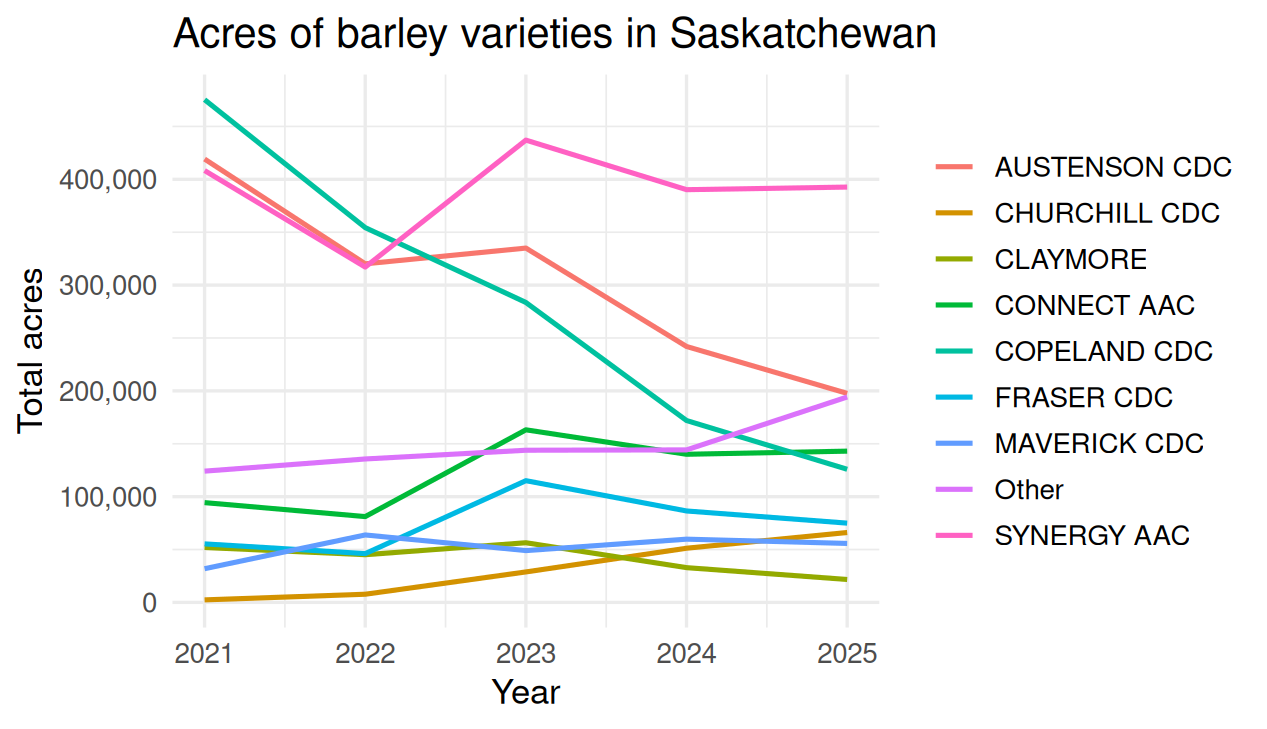
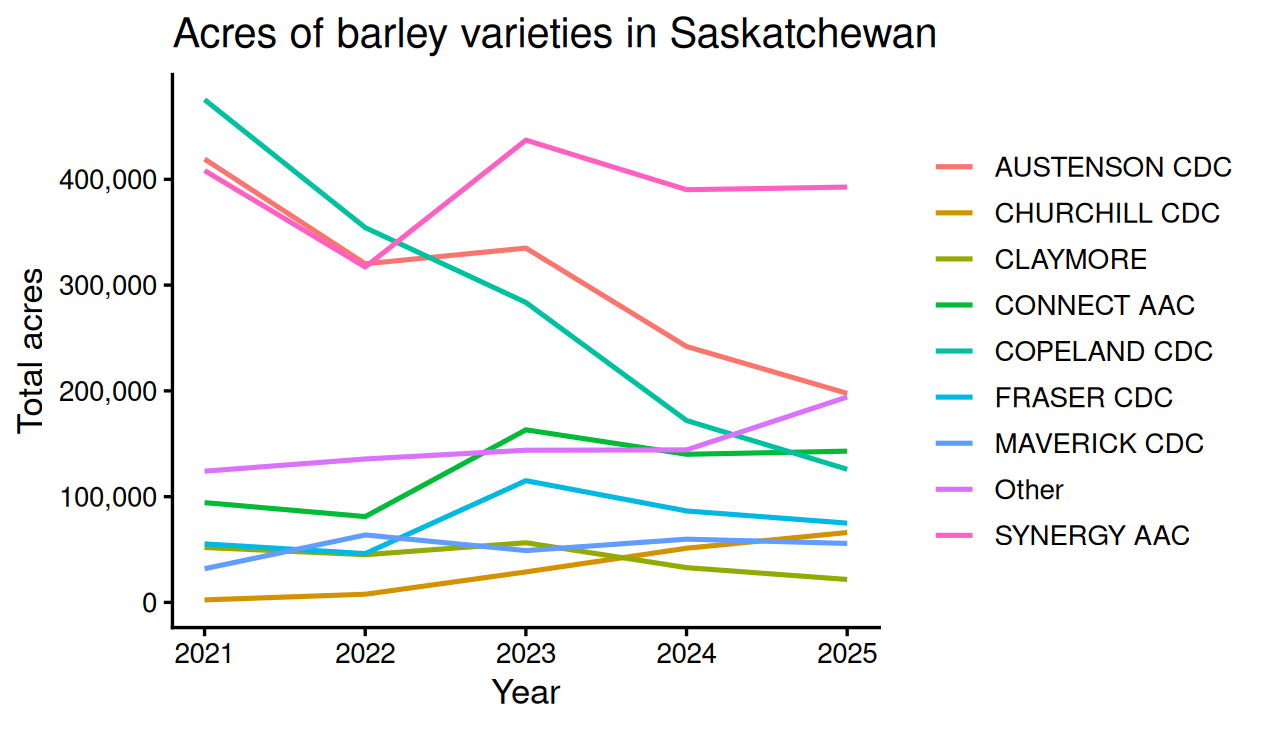
Built site for gh-pages

Changed region(s): [[0.0308, 0.1207, 0.708, 0.9355]]

diff --git a/module04c.html b/module04c.html
@@ -910,9 +910,9 @@ Figure&nbsp;12.8: The same line with a title, labelled axes and a zero baseline.
 <span id="cb13-4"><a href="#cb13-4" aria-hidden="true" tabindex="-1"></a>  <span class="fu">ggplot</span>(<span class="fu">aes</span>(<span class="at">x =</span> year, <span class="at">y =</span> acres, <span class="at">colour =</span> variety)) <span class="sc">+</span>   <span class="co"># one line per variety</span></span>
 <span id="cb13-5"><a href="#cb13-5" aria-hidden="true" tabindex="-1"></a>  <span class="fu">geom_line</span>(<span class="at">linewidth =</span> <span class="dv">1</span>) <span class="sc">+</span></span>
 <span id="cb13-6"><a href="#cb13-6" aria-hidden="true" tabindex="-1"></a>  <span class="fu">scale_y_continuous</span>(<span class="at">labels =</span> scales<span class="sc">::</span>comma, <span class="at">limits =</span> <span class="fu">c</span>(<span class="dv">0</span>, <span class="cn">NA</span>)) <span class="sc">+</span></span>
-<span id="cb13-7"><a href="#cb13-7" aria-hidden="true" tabindex="-1"></a>  <span class="fu">labs</span>(<span class="at">title =</span> <span class="st">"Copeland's acres are falling in risk zone 1; Synergy's are rising"</span>,</span>
+<span id="cb13-7"><a href="#cb13-7" aria-hidden="true" tabindex="-1"></a>  <span class="fu">labs</span>(<span class="at">title =</span> <span class="st">"Acres planted with Synergy and Copeland in risk zone 1"</span>,</span>
 <span id="cb13-8"><a href="#cb13-8" aria-hidden="true" tabindex="-1"></a>       <span class="at">x =</span> <span class="st">"Year"</span>, <span class="at">y =</span> <span class="st">"Acres"</span>, <span class="at">colour =</span> <span class="cn">NULL</span>) <span class="sc">+</span></span>
-<span id="cb13-9"><a href="#cb13-9" aria-hidden="true" tabindex="-1"></a>  <span class="fu">theme_classic</span>(<span class="at">base_size =</span> <span class="dv">13</span>)</span></code></pre></div><button title="Copy to Clipboard" class="code-copy-button"><i class="bi"></i></button></div>
+<span id="cb13-9"><a href="#cb13-9" aria-hidden="true" tabindex="-1"></a>  <span class="fu">theme_classic</span>(<span class="at">base_size =</span> <span class="dv">13</span>) </span></code></pre></div><button title="Copy to Clipboard" class="code-copy-button"><i class="bi"></i></button></div>
 <div class="cell-output-display">
 <div id="fig-r-line-two" class="quarto-float quarto-figure quarto-figure-center anchored" alt="Two lines crossing: Copeland falls from about 21,000 acres in 2021 to 7,900 in 2025 while Synergy rises from 4,300 to 9,200.">
 <figure class="quarto-float quarto-float-fig figure">
@@ -929,10 +929,10 @@ Figure&nbsp;12.9: Synergy and Copeland in risk zone 1.
 <p>Breaking down what changed:</p>
 <ol type="1">
 <li><code>%in%</code> keeps a row when <code>variety</code> matches either name in the list, where <code>==</code> could match only one <em>then</em></li>
-<li><code>colour = variety</code> is now <em>inside</em> <code>aes()</code>, so colour carries information: each variety gets its own colour and its own line. When we set the colour of the Synergy line ourselves, <code>colour = "DarkGreen"</code> sat <em>outside</em> <code>aes()</code>, in <code>geom_line()</code> <em>then</em></li>
+<li><code>colour = variety</code> is now <em>inside</em> <code>aes()</code>. So what is in <code>aes()</code> now reads – assign year to the x-axis, acres to the y-axis, and give each variety its own colour (i.e., its own line) <em>then</em></li>
 <li><code>colour = NULL</code> inside <code>labs()</code> removes the legend’s title, since the variety names speak for themselves.</li>
 </ol>
-<p>The Excel chapter’s answer to “what about all the varieties?” was a PivotChart, with the small varieties filtered out or grouped. We can do the same grouping here, in a data step and a plotting step. This time we want the whole province rather than one risk zone, so the data step also has to add up the acres across zones with <code>group_by()</code> and <code>summarise()</code>. It builds the variety-year totals, works out which varieties have more than 150,000 acres over the five years – the same threshold we used in the PivotChart filter – and renames the rest to <code>"Other"</code>:</p>
+<p>Now we want to add all the varieties to our plot and to sum acreage across risk zones. Our first challenge is to do what the PivotTable effectively did in Excel: sum the acres for each variety and year across risk zones.</p>
 <div class="cell">
 <div class="cell-output-display">
 <div class="code-copy-outer-scaffold"><div class="sourceCode" id="cb14"><pre class="sourceCode r code-with-copy"><code class="sourceCode r"><span id="cb14-1"><a href="#cb14-1" aria-hidden="true" tabindex="-1"></a><span class="co"># Total acres for each variety and year</span></span>
@@ -941,20 +941,7 @@ Figure&nbsp;12.9: Synergy and Copeland in risk zone 1.
 <span id="cb14-4"><a href="#cb14-4" aria-hidden="true" tabindex="-1"></a>  <span class="fu">group_by</span>(variety, year) <span class="sc">|&gt;</span></span>
 <span id="cb14-5"><a href="#cb14-5" aria-hidden="true" tabindex="-1"></a>  <span class="fu">summarise</span>(<span class="at">acres =</span> <span class="fu">sum</span>(acres, <span class="at">na.rm =</span> <span class="cn">TRUE</span>), <span class="at">.groups =</span> <span class="st">"drop"</span>)</span>
 <span id="cb14-6"><a href="#cb14-6" aria-hidden="true" tabindex="-1"></a></span>
-<span id="cb14-7"><a href="#cb14-7" aria-hidden="true" tabindex="-1"></a><span class="co"># Which varieties have more than 150,000 acres over the five years?</span></span>
-<span id="cb14-8"><a href="#cb14-8" aria-hidden="true" tabindex="-1"></a>big_varieties <span class="ot">&lt;-</span> barley_by_year <span class="sc">|&gt;</span></span>
-<span id="cb14-9"><a href="#cb14-9" aria-hidden="true" tabindex="-1"></a>  <span class="fu">group_by</span>(variety) <span class="sc">|&gt;</span></span>
-<span id="cb14-10"><a href="#cb14-10" aria-hidden="true" tabindex="-1"></a>  <span class="fu">summarise</span>(<span class="at">total_acres =</span> <span class="fu">sum</span>(acres)) <span class="sc">|&gt;</span></span>
-<span id="cb14-11"><a href="#cb14-11" aria-hidden="true" tabindex="-1"></a>  <span class="fu">filter</span>(total_acres <span class="sc">&gt;</span> <span class="dv">150000</span>)</span>
-<span id="cb14-12"><a href="#cb14-12" aria-hidden="true" tabindex="-1"></a></span>
-<span id="cb14-13"><a href="#cb14-13" aria-hidden="true" tabindex="-1"></a>big_varieties</span>
-<span id="cb14-14"><a href="#cb14-14" aria-hidden="true" tabindex="-1"></a></span>
-<span id="cb14-15"><a href="#cb14-15" aria-hidden="true" tabindex="-1"></a><span class="co"># Group everything else into "Other" and re-total</span></span>
-<span id="cb14-16"><a href="#cb14-16" aria-hidden="true" tabindex="-1"></a>main_varieties <span class="ot">&lt;-</span> barley_by_year <span class="sc">|&gt;</span></span>
-<span id="cb14-17"><a href="#cb14-17" aria-hidden="true" tabindex="-1"></a>  <span class="fu">mutate</span>(<span class="at">variety =</span> <span class="fu">if_else</span>(variety <span class="sc">%in%</span> big_varieties<span class="sc">$</span>variety,</span>
-<span id="cb14-18"><a href="#cb14-18" aria-hidden="true" tabindex="-1"></a>                           variety, <span class="st">"Other"</span>)) <span class="sc">|&gt;</span></span>
-<span id="cb14-19"><a href="#cb14-19" aria-hidden="true" tabindex="-1"></a>  <span class="fu">group_by</span>(variety, year) <span class="sc">|&gt;</span></span>
-<span id="cb14-20"><a href="#cb14-20" aria-hidden="true" tabindex="-1"></a>  <span class="fu">summarise</span>(<span class="at">acres =</span> <span class="fu">sum</span>(acres), <span class="at">.groups =</span> <span class="st">"drop"</span>)</span></code></pre></div><button title="Copy to Clipboard" class="code-copy-button"><i class="bi"></i></button></div>
+<span id="cb14-7"><a href="#cb14-7" aria-hidden="true" tabindex="-1"></a>barley_by_year</span></code></pre></div><button title="Copy to Clipboard" class="code-copy-button"><i class="bi"></i></button></div>
 <div class="console-transcript">
 <pre><code>&gt; # Total acres for each variety and year
 &gt; barley_by_year &lt;- variety_yields |&gt;
@@ -962,49 +949,84 @@ Figure&nbsp;12.9: Synergy and Copeland in risk zone 1.
 +   group_by(variety, year) |&gt;
 +   summarise(acres = sum(acres, na.rm = TRUE), .groups = "drop")
 &gt; 
-&gt; # Which varieties have more than 150,000 acres over the five years?
-&gt; big_varieties &lt;- barley_by_year |&gt;
+&gt; barley_by_year
+# A tibble: 165 × 3
+   variety       year acres
+   &lt;chr&gt;        &lt;dbl&gt; &lt;dbl&gt;
+ 1 ADVANTAGE AB  2021  2770
+ 2 ADVANTAGE AB  2022  7821
+ 3 ADVANTAGE AB  2023 17244
+ 4 ADVANTAGE AB  2024 22859
+ 5 ADVANTAGE AB  2025 22568
+ 6 ALBRIGHT AC   2021     0
+ 7 ALBRIGHT AC   2022     0
+ 8 ALBRIGHT AC   2023     0
+ 9 ALBRIGHT AC   2024     0
+10 ALBRIGHT AC   2025   700
+# ℹ 155 more rows</code></pre>
+</div>
+</div>
+</div>
+<p>This gives us one row per variety per year, but a chart with every variety would still have too many lines. As we did for the pie chart, we want to group the small varieties into an “Other” category. This time a variety’s size is its total acres across all five years, so we need to calculate that total before we can rename anything.</p>
+<div class="cell">
+<div class="cell-output-display">
+<div class="code-copy-outer-scaffold"><div class="sourceCode" id="cb16"><pre class="sourceCode r code-with-copy"><code class="sourceCode r"><span id="cb16-1"><a href="#cb16-1" aria-hidden="true" tabindex="-1"></a><span class="do">##First get the total acreage of each variety across all risk zones and years</span></span>
+<span id="cb16-2"><a href="#cb16-2" aria-hidden="true" tabindex="-1"></a>barley_variety_yields <span class="ot">&lt;-</span> variety_yields <span class="sc">|&gt;</span></span>
+<span id="cb16-3"><a href="#cb16-3" aria-hidden="true" tabindex="-1"></a>  <span class="fu">filter</span>(crop <span class="sc">==</span> <span class="st">"Barley"</span>) <span class="sc">|&gt;</span></span>
+<span id="cb16-4"><a href="#cb16-4" aria-hidden="true" tabindex="-1"></a>  <span class="fu">group_by</span>(variety) <span class="sc">|&gt;</span></span>
+<span id="cb16-5"><a href="#cb16-5" aria-hidden="true" tabindex="-1"></a>  <span class="fu">mutate</span>(<span class="at">total_acres =</span> <span class="fu">sum</span>(acres, <span class="at">na.rm =</span> <span class="cn">TRUE</span>)) <span class="sc">|&gt;</span></span>
+<span id="cb16-6"><a href="#cb16-6" aria-hidden="true" tabindex="-1"></a>  <span class="fu">ungroup</span>()</span>
+<span id="cb16-7"><a href="#cb16-7" aria-hidden="true" tabindex="-1"></a></span>
+<span id="cb16-8"><a href="#cb16-8" aria-hidden="true" tabindex="-1"></a><span class="do">## For varieties with less than 150,000 acres across all years, rename them to "Other"</span></span>
+<span id="cb16-9"><a href="#cb16-9" aria-hidden="true" tabindex="-1"></a>barley_variety_yields <span class="ot">&lt;-</span> barley_variety_yields <span class="sc">|&gt;</span></span>
+<span id="cb16-10"><a href="#cb16-10" aria-hidden="true" tabindex="-1"></a>    <span class="fu">mutate</span>(<span class="at">variety =</span> <span class="fu">if_else</span>(total_acres<span class="sc">&lt;</span><span class="dv">150000</span>, <span class="st">"Other"</span>, variety))</span>
+<span id="cb16-11"><a href="#cb16-11" aria-hidden="true" tabindex="-1"></a></span>
+<span id="cb16-12"><a href="#cb16-12" aria-hidden="true" tabindex="-1"></a><span class="co"># Total acres for each variety and year</span></span>
+<span id="cb16-13"><a href="#cb16-13" aria-hidden="true" tabindex="-1"></a>barley_by_year <span class="ot">&lt;-</span> barley_variety_yields <span class="sc">|&gt;</span></span>
+<span id="cb16-14"><a href="#cb16-14" aria-hidden="true" tabindex="-1"></a>  <span class="fu">group_by</span>(variety, year) <span class="sc">|&gt;</span></span>
+<span id="cb16-15"><a href="#cb16-15" aria-hidden="true" tabindex="-1"></a>  <span class="fu">summarise</span>(<span class="at">acres =</span> <span class="fu">sum</span>(acres, <span class="at">na.rm =</span> <span class="cn">TRUE</span>)) <span class="sc">|&gt;</span></span>
+<span id="cb16-16"><a href="#cb16-16" aria-hidden="true" tabindex="-1"></a>  <span class="fu">ungroup</span>()</span></code></pre></div><button title="Copy to Clipboard" class="code-copy-button"><i class="bi"></i></button></div>
+<div class="console-transcript">
+<pre><code>&gt; ##First get the total acreage of each variety across all risk zones and years
+&gt; barley_variety_yields &lt;- variety_yields |&gt;
++   filter(crop == "Barley") |&gt;
 +   group_by(variety) |&gt;
-+   summarise(total_acres = sum(acres)) |&gt;
-+   filter(total_acres &gt; 150000)
++   mutate(total_acres = sum(acres, na.rm = TRUE)) |&gt;
++   ungroup()
 &gt; 
-&gt; big_varieties
-# A tibble: 8 × 2
-  variety       total_acres
-  &lt;chr&gt;               &lt;dbl&gt;
-1 AUSTENSON CDC     1513916
-2 CHURCHILL CDC      156341
-3 CLAYMORE           208024
-4 CONNECT AAC        621765
-5 COPELAND CDC      1411073
-6 FRASER CDC         377996
-7 MAVERICK CDC       260246
-8 SYNERGY AAC       1945350
+&gt; ## For varieties with less than 150,000 acres across all years, rename them to "Other"
+&gt; barley_variety_yields &lt;- barley_variety_yields |&gt;
++     mutate(variety = if_else(total_acres&lt;150000, "Other", variety))
 &gt; 
-&gt; # Group everything else into "Other" and re-total
-&gt; main_varieties &lt;- barley_by_year |&gt;
-+   mutate(variety = if_else(variety %in% big_varieties$variety,
-+                            variety, "Other")) |&gt;
+&gt; # Total acres for each variety and year
+&gt; barley_by_year &lt;- barley_variety_yields |&gt;
 +   group_by(variety, year) |&gt;
-+   summarise(acres = sum(acres), .groups = "drop")</code></pre>
++   summarise(acres = sum(acres, na.rm = TRUE)) |&gt;
++   ungroup()
+`summarise()` has regrouped the output.
+ℹ Summaries were computed grouped by variety and year.
+ℹ Output is grouped by variety.
+ℹ Use `summarise(.groups = "drop_last")` to silence this message.
+ℹ Use `summarise(.by = c(variety, year))` for per-operation grouping
+  (`?dplyr::dplyr_by`) instead.</code></pre>
 </div>
 </div>
 </div>
-<p>Reading the data step line by line:</p>
+<p>Reading this code line by line:</p>
 <ol type="1">
-<li>Take the risk-zone records, keep the barley rows, and total the acres for each variety in each year – <code>group_by(variety, year)</code> with <code>summarise()</code> collapses the risk zones into provincial totals <em>then</em></li>
-<li>Total each variety’s acres across the five years, and keep the varieties over 150,000 acres <em>then</em></li>
-<li>Use <code>if_else()</code> with <code>%in%</code> to rename every other variety to <code>"Other"</code>, and re-total so <code>"Other"</code> is one line rather than fifty.</li>
+<li>Take the barley records, group them by <code>variety</code>, and use <code>mutate()</code> to create a <code>total_acres</code> column holding each variety’s acres summed across every zone and year. Where <code>summarise()</code> would collapse the groups down to one row each, <code>mutate()</code> after a <code>group_by()</code> keeps every row and attaches the group total to each of them. <code>ungroup()</code> then removes the grouping so later steps work on the whole table <em>then</em></li>
+<li>Use <code>if_else()</code> to rename every variety whose <code>total_acres</code> is under 150,000 – the same threshold we used in the PivotChart filter – to <code>"Other"</code> <em>then</em></li>
+<li>Re-total the acres by variety and year, so <code>"Other"</code> is a single line rather than fifty separate ones.</li>
 </ol>
 <p>Then the plotting step is the same line chart as before, with <code>variety</code> mapped to colour:</p>
 <div class="cell">
-<div class="code-copy-outer-scaffold"><div class="sourceCode cell-code" id="cb16"><pre class="sourceCode r code-with-copy"><code class="sourceCode r"><span id="cb16-1"><a href="#cb16-1" aria-hidden="true" tabindex="-1"></a>main_varieties <span class="sc">|&gt;</span></span>
-<span id="cb16-2"><a href="#cb16-2" aria-hidden="true" tabindex="-1"></a>  <span class="fu">ggplot</span>(<span class="fu">aes</span>(<span class="at">x =</span> year, <span class="at">y =</span> acres, <span class="at">colour =</span> variety)) <span class="sc">+</span></span>
-<span id="cb16-3"><a href="#cb16-3" aria-hidden="true" tabindex="-1"></a>  <span class="fu">geom_line</span>(<span class="at">linewidth =</span> <span class="fl">0.9</span>) <span class="sc">+</span></span>
-<span id="cb16-4"><a href="#cb16-4" aria-hidden="true" tabindex="-1"></a>  <span class="fu">scale_y_continuous</span>(<span class="at">labels =</span> scales<span class="sc">::</span>comma, <span class="at">limits =</span> <span class="fu">c</span>(<span class="dv">0</span>, <span class="cn">NA</span>)) <span class="sc">+</span></span>
-<span id="cb16-5"><a href="#cb16-5" aria-hidden="true" tabindex="-1"></a>  <span class="fu">labs</span>(<span class="at">title =</span> <span class="st">"Acres of barley varieties in Saskatchewan"</span>,</span>
-<span id="cb16-6"><a href="#cb16-6" aria-hidden="true" tabindex="-1"></a>       <span class="at">x =</span> <span class="st">"Year"</span>, <span class="at">y =</span> <span class="st">"Total acres"</span>, <span class="at">colour =</span> <span class="cn">NULL</span>) <span class="sc">+</span></span>
-<span id="cb16-7"><a href="#cb16-7" aria-hidden="true" tabindex="-1"></a>  <span class="fu">theme_minimal</span>(<span class="at">base_size =</span> <span class="dv">13</span>)</span></code></pre></div><button title="Copy to Clipboard" class="code-copy-button"><i class="bi"></i></button></div>
+<div class="code-copy-outer-scaffold"><div class="sourceCode cell-code" id="cb18"><pre class="sourceCode r code-with-copy"><code class="sourceCode r"><span id="cb18-1"><a href="#cb18-1" aria-hidden="true" tabindex="-1"></a>barley_by_year <span class="sc">|&gt;</span></span>
+<span id="cb18-2"><a href="#cb18-2" aria-hidden="true" tabindex="-1"></a>  <span class="fu">ggplot</span>(<span class="fu">aes</span>(<span class="at">x =</span> year, <span class="at">y =</span> acres, <span class="at">colour =</span> variety)) <span class="sc">+</span></span>
+<span id="cb18-3"><a href="#cb18-3" aria-hidden="true" tabindex="-1"></a>  <span class="fu">geom_line</span>(<span class="at">linewidth =</span> <span class="fl">0.9</span>) <span class="sc">+</span></span>
+<span id="cb18-4"><a href="#cb18-4" aria-hidden="true" tabindex="-1"></a>  <span class="fu">scale_y_continuous</span>(<span class="at">labels =</span> scales<span class="sc">::</span>comma, <span class="at">limits =</span> <span class="fu">c</span>(<span class="dv">0</span>, <span class="cn">NA</span>)) <span class="sc">+</span></span>
+<span id="cb18-5"><a href="#cb18-5" aria-hidden="true" tabindex="-1"></a>  <span class="fu">labs</span>(<span class="at">title =</span> <span class="st">"Acres of barley varieties in Saskatchewan"</span>,</span>
+<span id="cb18-6"><a href="#cb18-6" aria-hidden="true" tabindex="-1"></a>       <span class="at">x =</span> <span class="st">"Year"</span>, <span class="at">y =</span> <span class="st">"Total acres"</span>, <span class="at">colour =</span> <span class="cn">NULL</span>) <span class="sc">+</span></span>
+<span id="cb18-7"><a href="#cb18-7" aria-hidden="true" tabindex="-1"></a>  <span class="fu">theme_classic</span>(<span class="at">base_size =</span> <span class="dv">13</span>)</span></code></pre></div><button title="Copy to Clipboard" class="code-copy-button"><i class="bi"></i></button></div>
 <div class="cell-output-display">
 <div id="fig-r-line-many" class="quarto-float quarto-figure quarto-figure-center anchored" alt="Nine lines showing Copeland declining, Synergy and Austenson roughly steady, and an Other line near 300,000 acres.">
 <figure class="quarto-float quarto-float-fig figure">
@@ -1018,48 +1040,67 @@ Figure&nbsp;12.10: Acres of the main barley varieties, 2021 to 2025.
 </div>
 </div>
 </div>
-<p>Nine lines is about the limit for one chart, and with lines this distinct the legend works; <a href="module04a.html" class="quarto-xref"><span>Chapter 10</span></a> covers direct labels and other ways to keep a many-line chart readable.</p>
 </section>
 <section id="sec-saving-plots" class="level2" data-number="12.5">
 <h2 data-number="12.5" class="anchored" data-anchor-id="sec-saving-plots"><span class="header-section-number">12.5</span> Save the finished chart</h2>
-<p>Assigning a plot to a name makes the object passed to <code>ggsave()</code> explicit. Width and height are in inches unless another unit is supplied.</p>
+<p>In our code to date we have just displayed the plots in Positron. We can also save these plots as an object and then save them to a file. The first step is to assign the plot to a name. This means the object is saved in memory and can be displayed again later.</p>
+<p>We can then save that object to a file with <code>ggsave()</code>. The first argument is the file name, and the second is the plot object.</p>
 <div class="cell">
 <div class="cell-output-display">
-<div class="code-copy-outer-scaffold"><div class="sourceCode" id="cb17"><pre class="sourceCode r code-with-copy"><code class="sourceCode r"><span id="cb17-1"><a href="#cb17-1" aria-hidden="true" tabindex="-1"></a><span class="co"># Create the output folder if needed</span></span>
-<span id="cb17-2"><a href="#cb17-2" aria-hidden="true" tabindex="-1"></a><span class="fu">dir.create</span>(<span class="st">"output"</span>, <span class="at">showWarnings =</span> <span class="cn">FALSE</span>)</span>
-<span id="cb17-3"><a href="#cb17-3" aria-hidden="true" tabindex="-1"></a></span>
-<span id="cb17-4"><a href="#cb17-4" aria-hidden="true" tabindex="-1"></a><span class="co"># Save the finished bar chart</span></span>
-<span id="cb17-5"><a href="#cb17-5" aria-hidden="true" tabindex="-1"></a><span class="fu">ggsave</span>(</span>
-<span id="cb17-6"><a href="#cb17-6" aria-hidden="true" tabindex="-1"></a>  <span class="st">"output/barley_variety_bar.png"</span>,</span>
-<span id="cb17-7"><a href="#cb17-7" aria-hidden="true" tabindex="-1"></a>  <span class="at">plot =</span> bar_plot,</span>
-<span id="cb17-8"><a href="#cb17-8" aria-hidden="true" tabindex="-1"></a>  <span class="at">width =</span> <span class="fl">6.4</span>,</span>
-<span id="cb17-9"><a href="#cb17-9" aria-hidden="true" tabindex="-1"></a>  <span class="at">height =</span> <span class="fl">4.0</span>,</span>
-<span id="cb17-10"><a href="#cb17-10" aria-hidden="true" tabindex="-1"></a>  <span class="at">dpi =</span> <span class="dv">300</span></span>
-<span id="cb17-11"><a href="#cb17-11" aria-hidden="true" tabindex="-1"></a>)</span>
-<span id="cb17-12"><a href="#cb17-12" aria-hidden="true" tabindex="-1"></a></span>
-<span id="cb17-13"><a href="#cb17-13" aria-hidden="true" tabindex="-1"></a><span class="co"># Confirm that the file was written</span></span>
-<span id="cb17-14"><a href="#cb17-14" aria-hidden="true" tabindex="-1"></a><span class="fu">file.info</span>(<span class="st">"output/barley_variety_bar.png"</span>)[<span class="st">"size"</span>]</span></code></pre></div><button title="Copy to Clipboard" class="code-copy-button"><i class="bi"></i></button></div>
+<div>
+<figure class="figure">
+<p><a href="module04c_files/figure-html/unnamed-chunk-5-1.png" class="lightbox" data-gallery="quarto-lightbox-gallery-11"><img src="module04c_files/figure-html/unnamed-chunk-5-1.png" class="img-fluid figure-img" width="672"></a></p>
+</figure>
+</div>
+</div>
+<div class="cell-output-display">
+<div class="code-copy-outer-scaffold"><div class="sourceCode" id="cb19"><pre class="sourceCode r code-with-copy"><code class="sourceCode r"><span id="cb19-1"><a href="#cb19-1" aria-hidden="true" tabindex="-1"></a><span class="do">## Create plot (as above) and save it as the object variety_line_chart</span></span>
+<span id="cb19-2"><a href="#cb19-2" aria-hidden="true" tabindex="-1"></a>variety_line_chart <span class="ot">&lt;-</span> barley_by_year <span class="sc">|&gt;</span></span>
+<span id="cb19-3"><a href="#cb19-3" aria-hidden="true" tabindex="-1"></a>  <span class="fu">ggplot</span>(<span class="fu">aes</span>(<span class="at">x =</span> year, <span class="at">y =</span> acres, <span class="at">colour =</span> variety)) <span class="sc">+</span></span>
+<span id="cb19-4"><a href="#cb19-4" aria-hidden="true" tabindex="-1"></a>  <span class="fu">geom_line</span>(<span class="at">linewidth =</span> <span class="fl">0.9</span>) <span class="sc">+</span></span>
+<span id="cb19-5"><a href="#cb19-5" aria-hidden="true" tabindex="-1"></a>  <span class="fu">scale_y_continuous</span>(<span class="at">labels =</span> scales<span class="sc">::</span>comma, <span class="at">limits =</span> <span class="fu">c</span>(<span class="dv">0</span>, <span class="cn">NA</span>)) <span class="sc">+</span></span>
+<span id="cb19-6"><a href="#cb19-6" aria-hidden="true" tabindex="-1"></a>  <span class="fu">labs</span>(<span class="at">title =</span> <span class="st">"Acres of barley varieties in Saskatchewan"</span>,</span>
+<span id="cb19-7"><a href="#cb19-7" aria-hidden="true" tabindex="-1"></a>       <span class="at">x =</span> <span class="st">"Year"</span>, <span class="at">y =</span> <span class="st">"Total acres"</span>, <span class="at">colour =</span> <span class="cn">NULL</span>) <span class="sc">+</span></span>
+<span id="cb19-8"><a href="#cb19-8" aria-hidden="true" tabindex="-1"></a>  <span class="fu">theme_classic</span>(<span class="at">base_size =</span> <span class="dv">13</span>)</span>
+<span id="cb19-9"><a href="#cb19-9" aria-hidden="true" tabindex="-1"></a></span>
+<span id="cb19-10"><a href="#cb19-10" aria-hidden="true" tabindex="-1"></a><span class="do">## Visualize variety line chart by printing it in the console</span></span>
+<span id="cb19-11"><a href="#cb19-11" aria-hidden="true" tabindex="-1"></a>variety_line_chart</span>
+<span id="cb19-12"><a href="#cb19-12" aria-hidden="true" tabindex="-1"></a></span>
+<span id="cb19-13"><a href="#cb19-13" aria-hidden="true" tabindex="-1"></a><span class="co"># Save the finished line chart</span></span>
+<span id="cb19-14"><a href="#cb19-14" aria-hidden="true" tabindex="-1"></a><span class="fu">ggsave</span>(</span>
+<span id="cb19-15"><a href="#cb19-15" aria-hidden="true" tabindex="-1"></a>  <span class="st">"output/variety_line_chart.png"</span>,</span>
+<span id="cb19-16"><a href="#cb19-16" aria-hidden="true" tabindex="-1"></a>  <span class="at">plot =</span> variety_line_chart,</span>
+<span id="cb19-17"><a href="#cb19-17" aria-hidden="true" tabindex="-1"></a>  <span class="at">width =</span> <span class="fl">6.4</span>,</span>
+<span id="cb19-18"><a href="#cb19-18" aria-hidden="true" tabindex="-1"></a>  <span class="at">height =</span> <span class="fl">4.0</span>,</span>
+<span id="cb19-19"><a href="#cb19-19" aria-hidden="true" tabindex="-1"></a>  <span class="at">dpi =</span> <span class="dv">300</span></span>
+<span id="cb19-20"><a href="#cb19-20" aria-hidden="true" tabindex="-1"></a>)</span></code></pre></div><button title="Copy to Clipboard" class="code-copy-button"><i class="bi"></i></button></div>
 <div class="console-transcript">
-<pre><code>&gt; # Create the output folder if needed
-&gt; dir.create("output", showWarnings = FALSE)
+<pre><code>&gt; ## Create plot (as above) and save it as the object variety_line_chart
+&gt; variety_line_chart &lt;- barley_by_year |&gt;
++   ggplot(aes(x = year, y = acres, colour = variety)) +
++   geom_line(linewidth = 0.9) +
++   scale_y_continuous(labels = scales::comma, limits = c(0, NA)) +
++   labs(title = "Acres of barley varieties in Saskatchewan",
++        x = "Year", y = "Total acres", colour = NULL) +
++   theme_classic(base_size = 13)
 &gt; 
-&gt; # Save the finished bar chart
+&gt; ## Visualize variety line chart by printing it in the console
+&gt; variety_line_chart
+&gt; 
+&gt; # Save the finished line chart
 &gt; ggsave(
-+   "output/barley_variety_bar.png",
-+   plot = bar_plot,
++   "output/variety_line_chart.png",
++   plot = variety_line_chart,
 +   width = 6.4,
 +   height = 4.0,
 +   dpi = 300
 + )
-&gt; 
-&gt; # Confirm that the file was written
-&gt; file.info("output/barley_variety_bar.png")["size"]
-                               size
-output/barley_variety_bar.png 99566</code></pre>
+Error: Cannot find directory 'output'.
+ℹ Please supply an existing directory or use `create.dir = TRUE`.</code></pre>
 </div>
 </div>
 </div>
-<p>PNG works for slides and web pages. PDF preserves vector lines and text for publication. Stating the plot object, dimensions and resolution in code makes the export reproducible.</p>
+<p>I have chosen to save this as a PNG object by specifying the file type as <code>.png</code>. PNG works for slides and web pages. PDF preserves vector lines and text for publication. We can also alter the width, height, and quality of the image (in dpi or dots per inch).</p>
 <div class="callout callout-style-default callout-tip callout-titled">
 <div class="callout-header d-flex align-content-center collapsed" data-bs-toggle="collapse" data-bs-target=".callout-1-contents" aria-controls="callout-1" aria-expanded="false" aria-label="Toggle callout">
 <div class="callout-icon-container">
